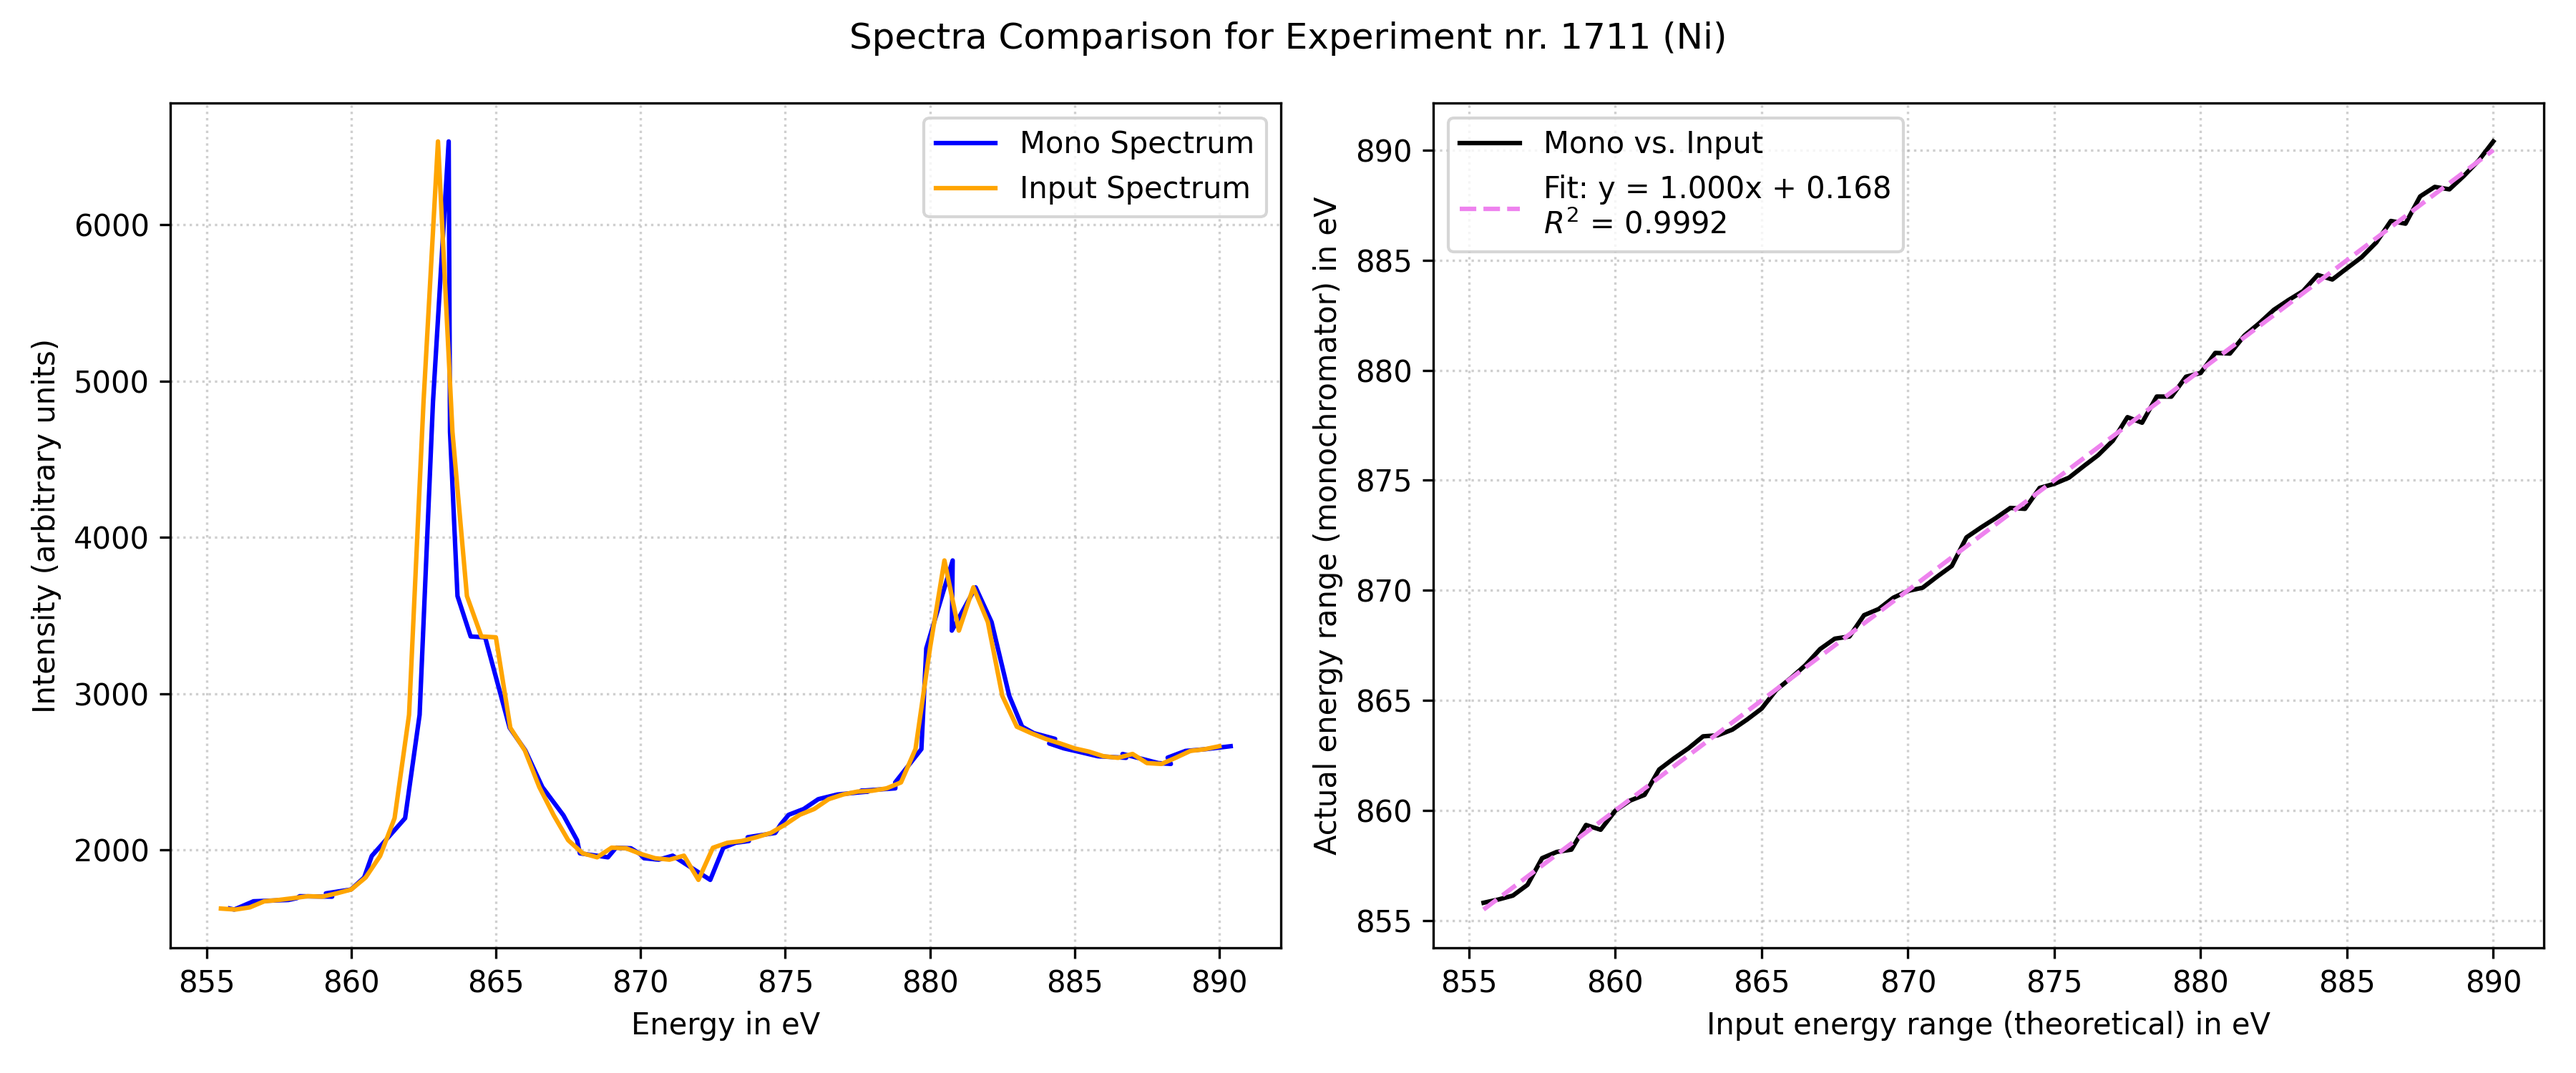
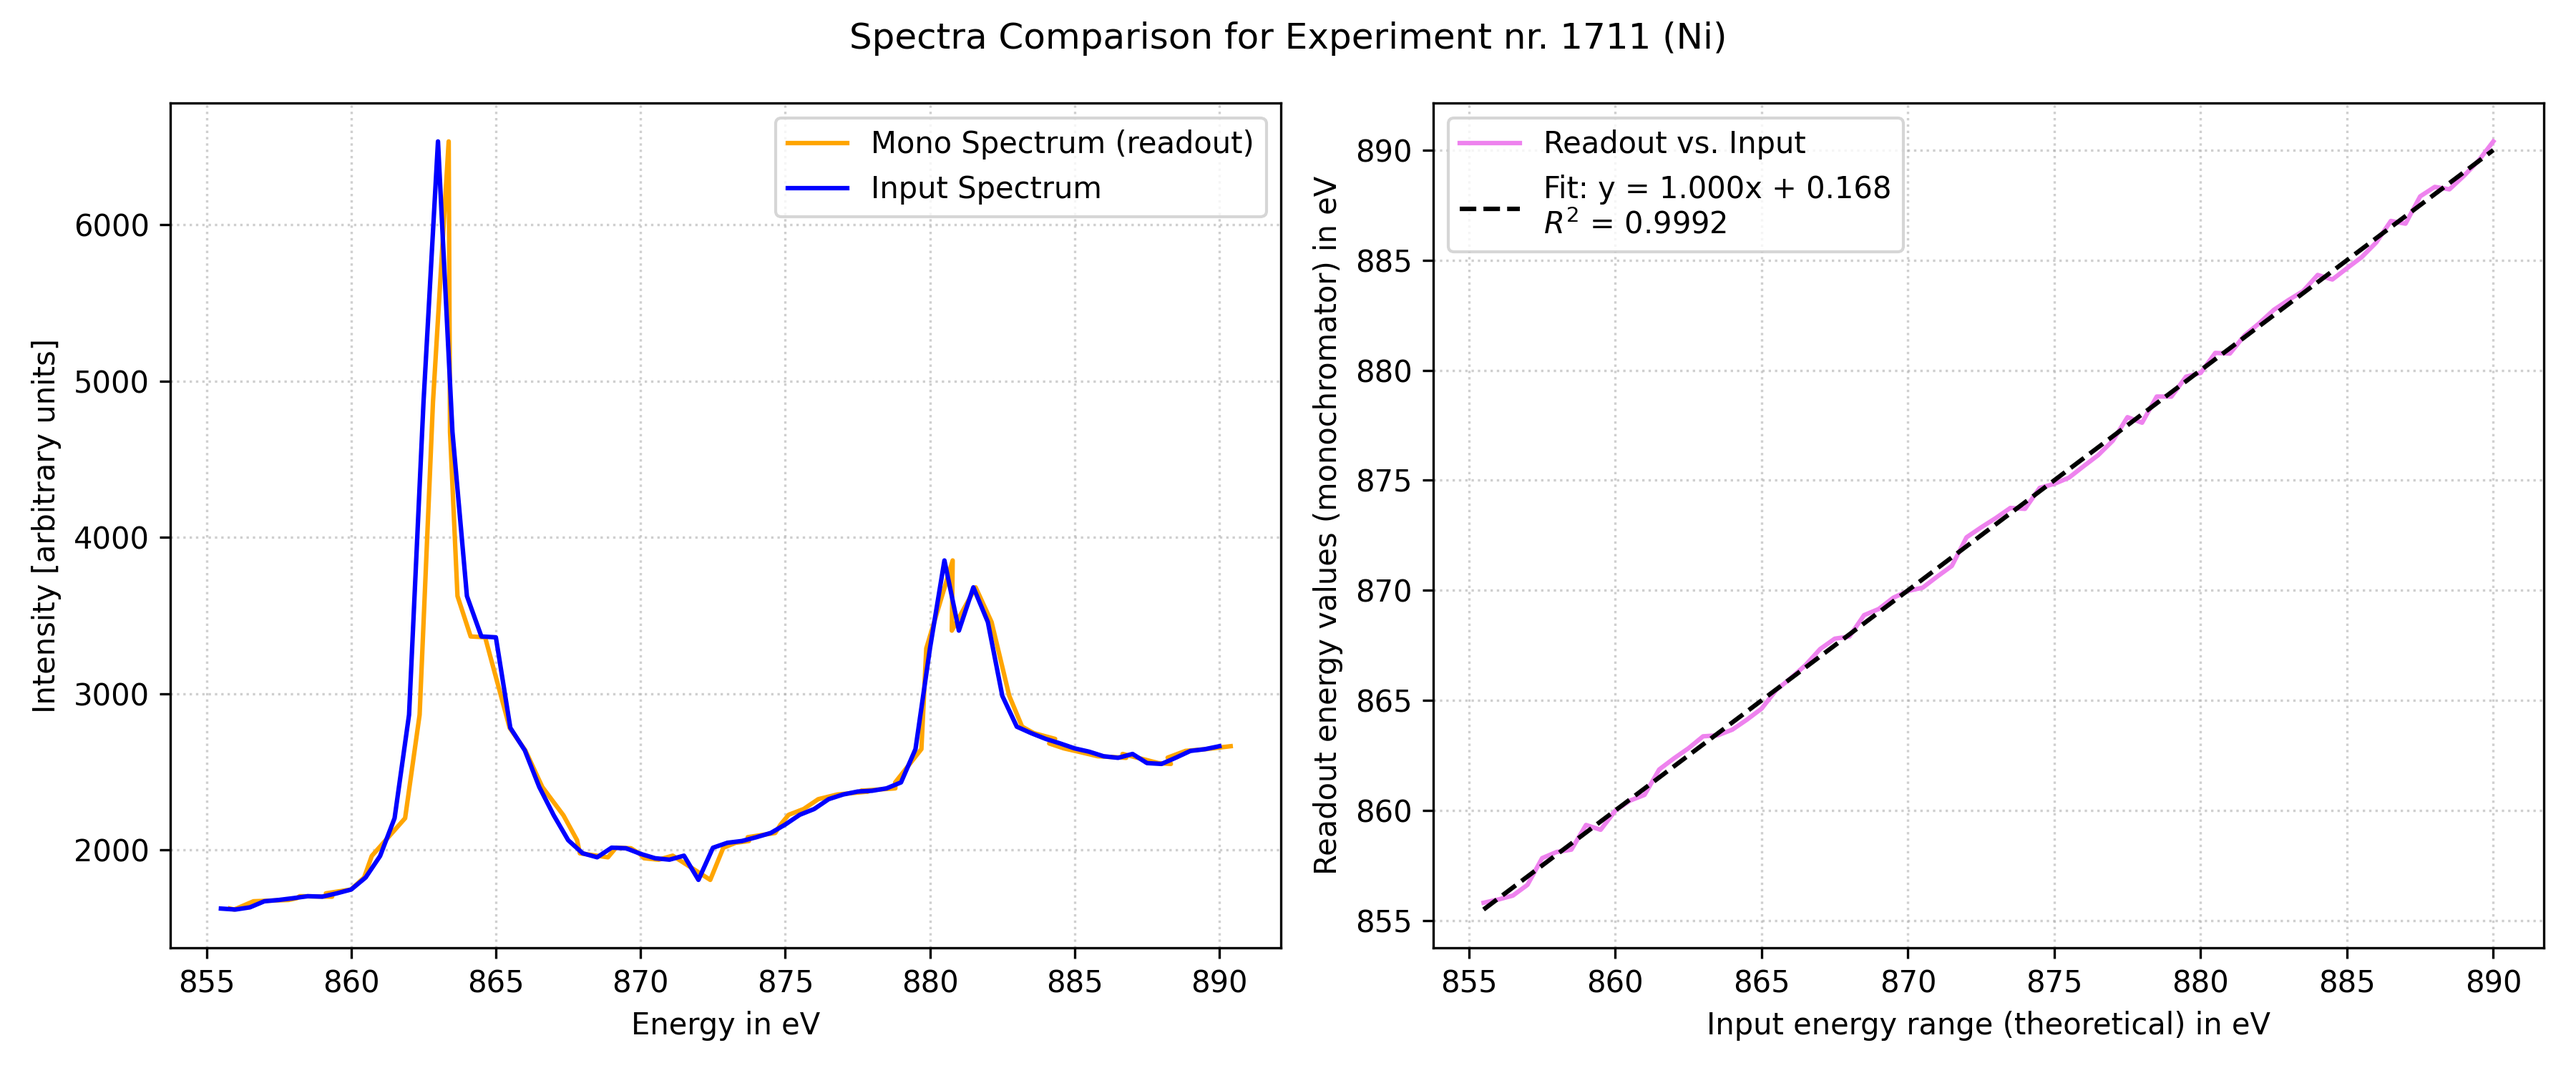
All spectra 1711, 1714, 1717, 1733 updated (colours)

diff --git a/plotting_spectra.py b/plotting_spectra.py
@@ -13,8 +13,8 @@ from scipy import stats
 # Load data
 nexp = '1733'     # number of the experiment. Note that file names need to be identical!
 element = 'Ni'  # element (Ni or Ru)
-mono_data=np.loadtxt('Images\\Plots comparison Ni-Ru\\mono_ni'+nexp+'.csv', delimiter=',',skiprows=5)
-input_data=np.loadtxt('Images\\Plots comparison Ni-Ru\\input_ni'+nexp+'.csv', delimiter=',',skiprows=5)
+mono_data=np.loadtxt('Images\\Plots comparison Ni-Ru\\mono_'+element+nexp+'.csv', delimiter=',',skiprows=5)
+input_data=np.loadtxt('Images\\Plots comparison Ni-Ru\\input_'+element+nexp+'.csv', delimiter=',',skiprows=5)
 
 x_input = input_data[:,0]
 y_mono = mono_data[:,0]
